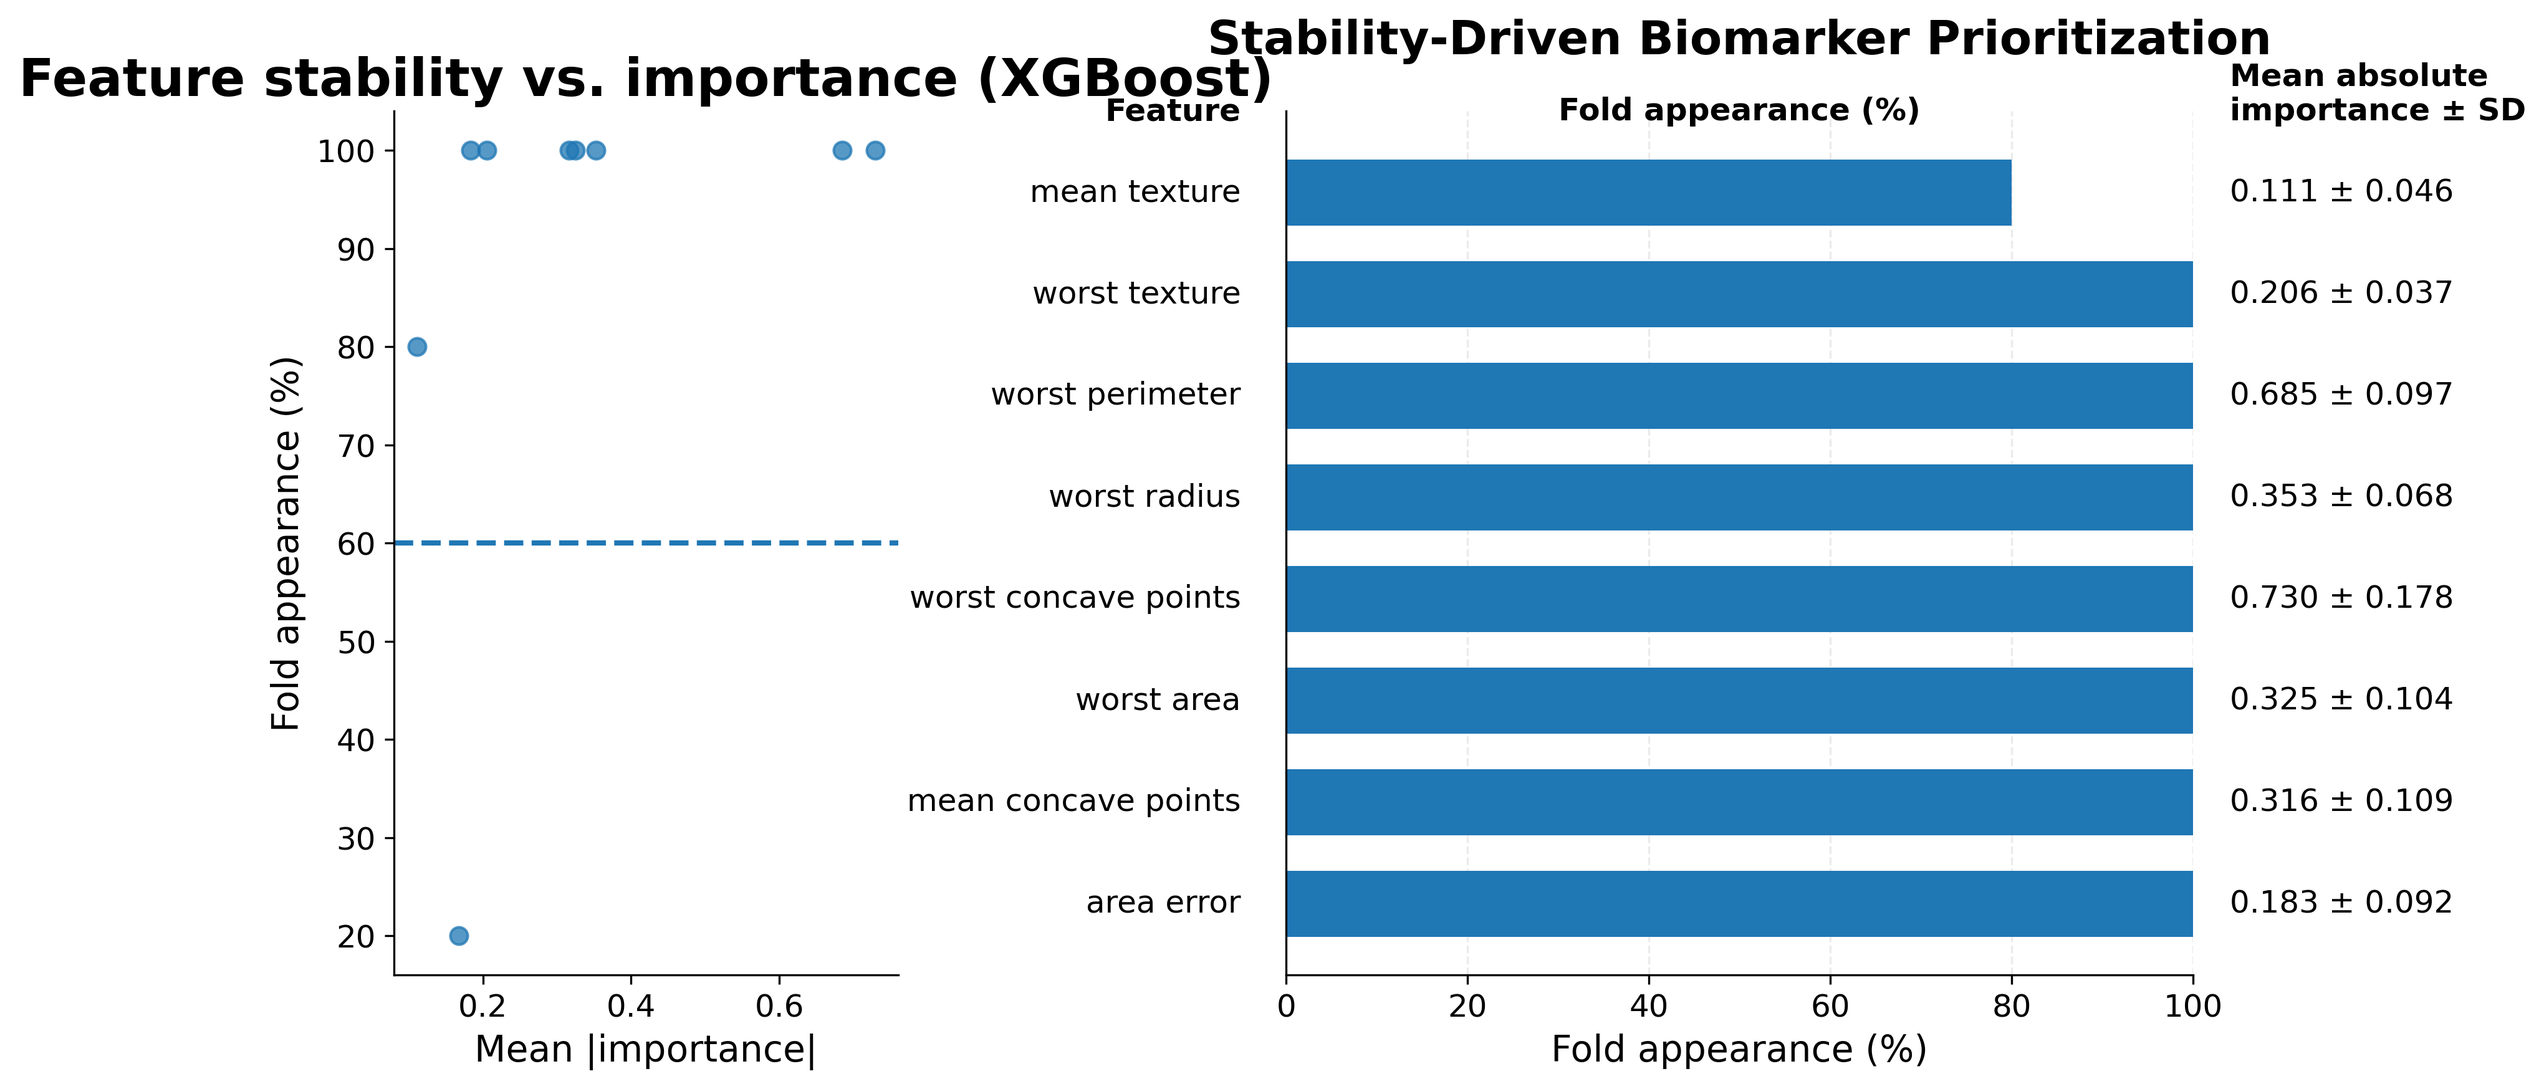
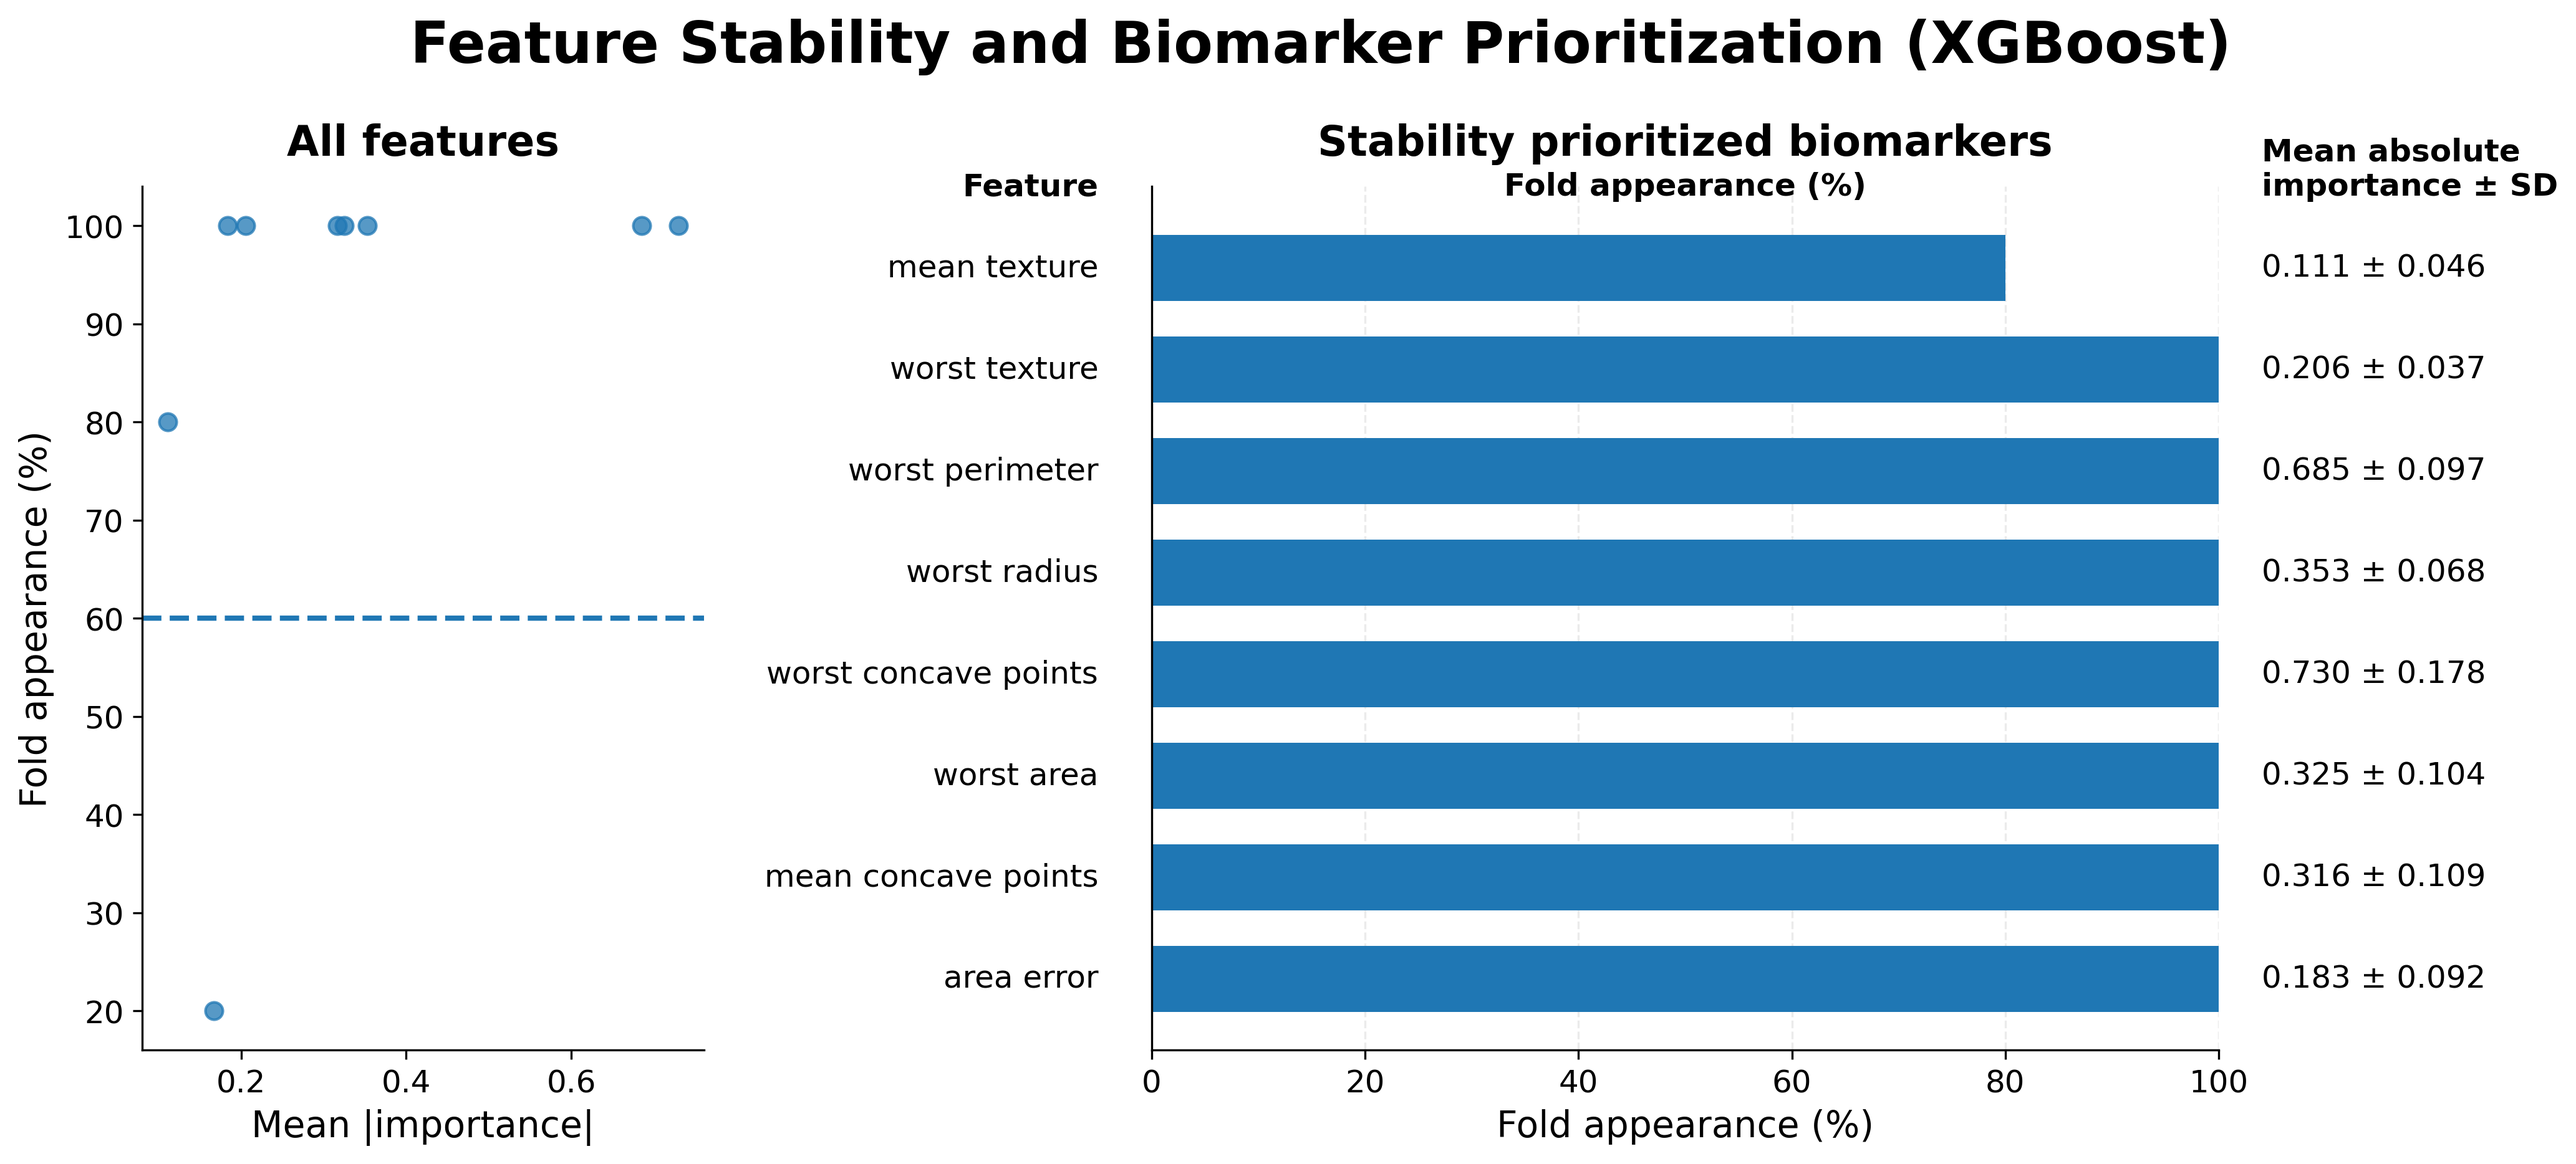
Polish README and repo structure

diff --git a/src/biomarkerML_pipeline/evaluation.py b/src/biomarkerML_pipeline/evaluation.py
@@ -76,8 +76,8 @@ def analyze_feature_stability_importance_each_model(model_name,feature_importanc
 
     fig, axes = plt.subplots(
     1, 2,
-    figsize=(13, 6),
-    gridspec_kw={"width_ratios": [1.0, 1.8]})
+    figsize=(15, 6),
+    gridspec_kw={"width_ratios": [1.0, 1.9]})
 
     #####stability vs importance all features
     fold_cutoff = cross_validation_selection
@@ -95,7 +95,7 @@ def analyze_feature_stability_importance_each_model(model_name,feature_importanc
     axes[0].set_xlabel("Mean |importance|",fontsize=14)
     axes[0].set_ylabel("Fold appearance (%)",fontsize=14)
     axes[0].tick_params(axis="both", labelsize=12)
-    axes[0].set_title(f"Feature stability vs. importance ({model_name})",fontsize=20, fontweight="bold")
+    axes[0].set_title("All features",fontsize=16, fontweight="bold",pad=12)
 
     ####with the selected features
     selected = agg[
@@ -122,10 +122,10 @@ def analyze_feature_stability_importance_each_model(model_name,feature_importanc
     axes[1].set_xlabel("Fold appearance (%)",fontsize=14)
     axes[1].tick_params(axis="x", labelsize=12)
     axes[1].set_title(
-    "Stability-Driven Biomarker Prioritization",
-    fontsize=18,
+    "Stability prioritized biomarkers",
+    fontsize=16,
     fontweight="bold",
-    pad=22)
+    pad=12)
 
     for ax in axes:
         ax.spines["top"].set_visible(False)
@@ -189,6 +189,12 @@ def analyze_feature_stability_importance_each_model(model_name,feature_importanc
     alpha=0.25)
 
     axes[1].set_axisbelow(True)
+    
+    fig.suptitle(
+    f"Feature Stability and Biomarker Prioritization ({model_name})",
+    fontsize=22,
+    fontweight="bold",
+    y=1.03)
 
     plt.subplots_adjust(left=0.08, right=0.82, wspace=0.55)
     plt.savefig(output_dir / f"Feature_stability_and_importance_summary_{model_name}.png", dpi=300, bbox_inches="tight")

diff --git a/README.md b/README.md
@@ -3,7 +3,6 @@
 A machine learning framework for stability-driven biomarker prioritization using cross-validation feature importance, feature stability, and multi-model consensus analysis.
 
 ## Overview
-![Consensus features across models](outputs/breast_cancer_demo/feature_selection_consensus_heatmap.png)
 
 Biomarker discovery studies often rely on a single machine learning model, which can introduce model-specific feature selection bias and unstable biomarker prioritization.
 
